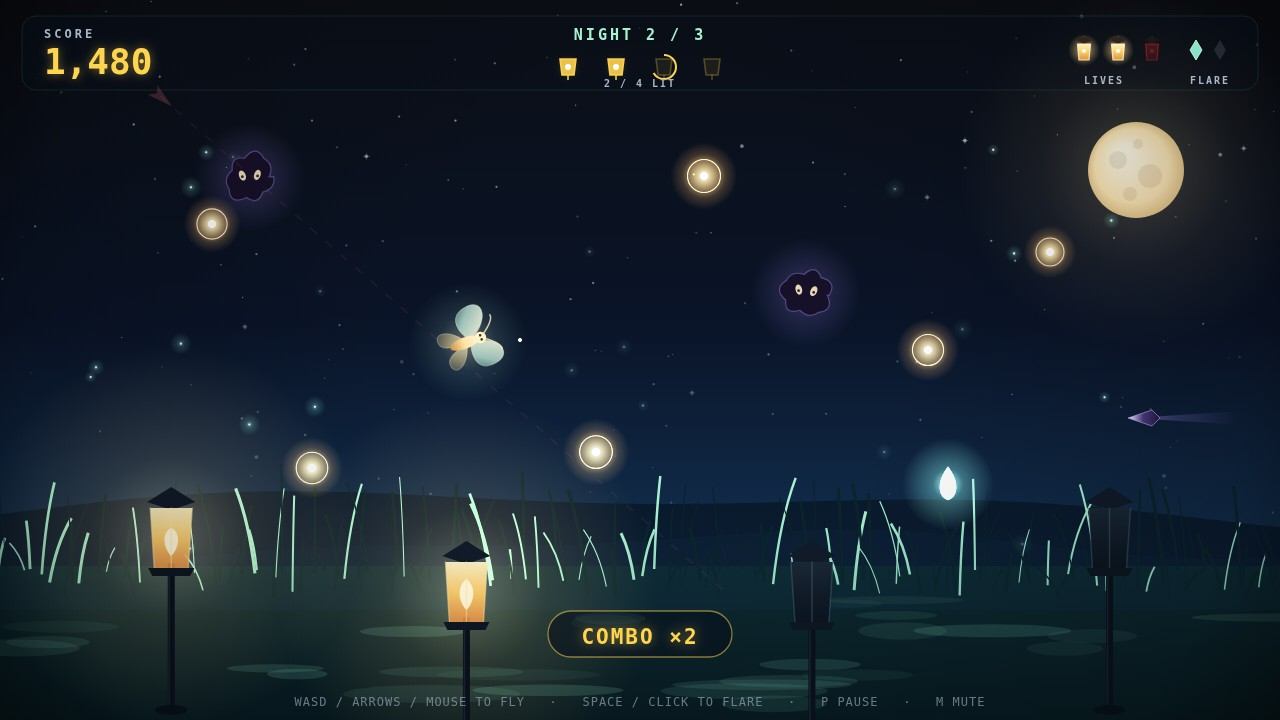
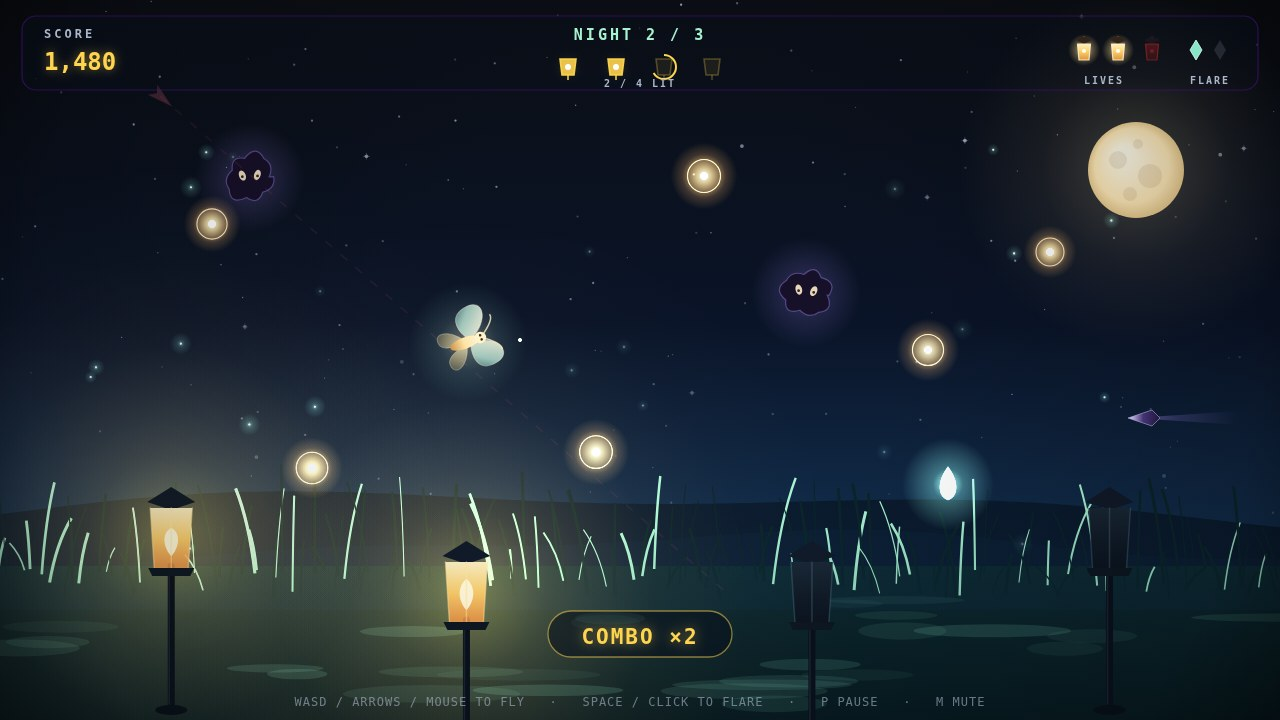
HUD: Miku spec stroke #4A148C and 24px monospace score; refresh title/play screenshots

Changed region(s): [[0.125, 0.6111, 0.4375, 0.9472], [0.0312, 0.0611, 0.125, 0.1222]]

diff --git a/game/src/render.js b/game/src/render.js
@@ -810,12 +810,12 @@ export function createRenderer(canvas) {
     panel.addColorStop(1, 'rgba(7, 14, 27, 0.2)');
     ctx.fillStyle = panel;
     ctx.fill();
-    ctx.strokeStyle = 'rgba(143, 240, 208, 0.1)';
-    ctx.lineWidth = 1;
+    ctx.strokeStyle = 'rgba(74, 20, 140, 0.55)';
+    ctx.lineWidth = 1.2;
     ctx.stroke();
 
     label(ctx, 'SCORE', 44, 38, { font: `600 12px ${MONO_FONT}`, color: C.textDim, spacing: 3 });
-    label(ctx, state.score.toLocaleString('en-US'), 44, 74, { font: `700 36px ${MONO_FONT}`, color: C.amber, glow: 10, glowColor: 'rgba(255, 213, 79, 0.45)' });
+    label(ctx, state.score.toLocaleString('en-US'), 44, 70, { font: `700 24px ${MONO_FONT}`, color: C.amber, glow: 10, glowColor: 'rgba(255, 213, 79, 0.45)' });
     // Combo lives at the bottom centre, fading in while the chain holds and out when it breaks.
     if (state.combo > 1) {
       const fade = clamp(state.comboTimer / 0.5, 0, 1);
